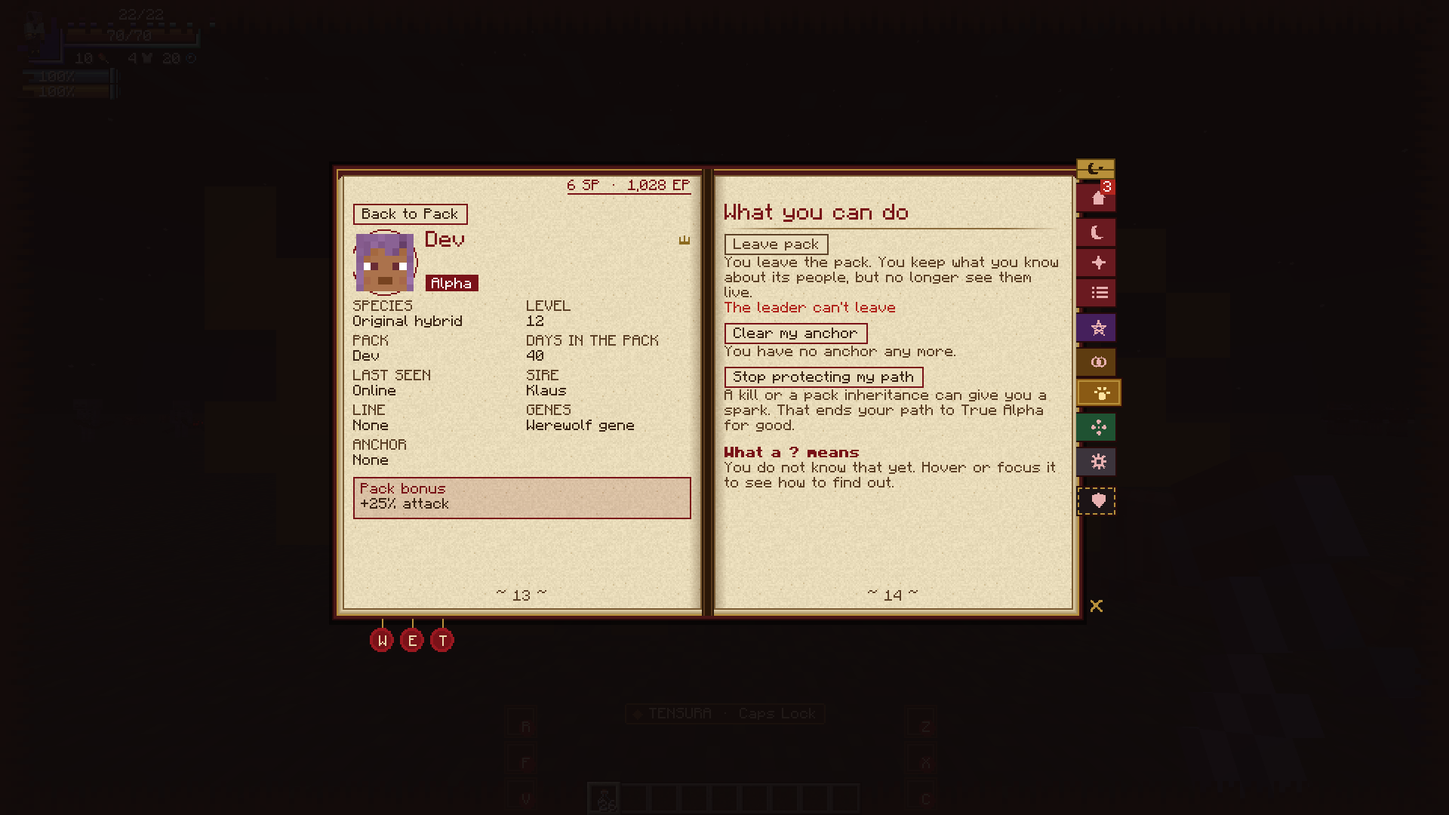
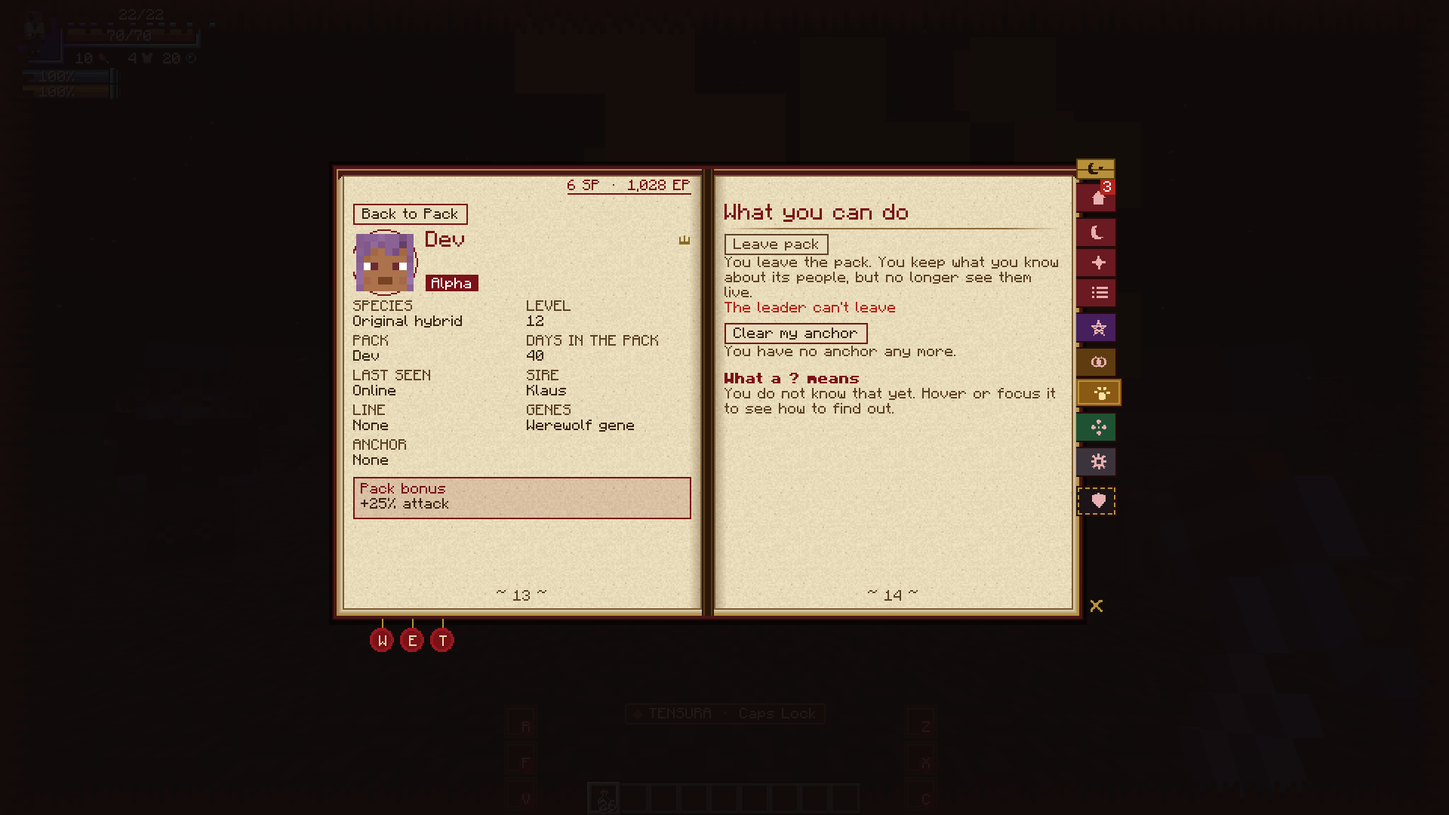
fix(sparks): protection covers kills only (inheritance still passes the spark); own client sees a True Alpha's full sparks; bare protect off hints confirm; ApexFallback settles pending changes; behaviour tests

Changed region(s): [[0.5, 0.4583, 0.7188, 0.6111], [0.6875, 0.55, 0.7188, 0.5806]]

diff --git a/src/main/java/net/ofatech/supernaturalbloodlines/parts/species/gametest/SparkRulesGameTests.java b/src/main/java/net/ofatech/supernaturalbloodlines/parts/species/gametest/SparkRulesGameTests.java
@@ -156,30 +156,30 @@ public final class SparkRulesGameTests {
         helper.succeed();
     }
 
-    /** An inheritance cannot ask: a Beta who protects an open path is passed over, one who does not (or has none left) inherits; with none the pack dissolves. */
+    /** Protection covers kills only (owner ruling): an inheritance gives the spark to the strongest Beta even if they protect an open path, and that closes it; the pack goes on. */
     @GameTest(template = "empty", templateNamespace = NS)
-    public static void aPackInheritancePassesOverABetaWhoProtectsTheirPath(GameTestHelper helper) {
+    public static void aPackInheritanceStillGivesTheSparkToAProtectedBetaAndClosesTheirPath(GameTestHelper helper) {
         ServerPlayer leader = alpha(helper, 6, 1.5);
-        ServerPlayer protectedBeta = wolf(helper, Rank.BETA, leader.getUUID(), 9, 2.5);
-        ServerPlayer open = wolf(helper, Rank.BETA, leader.getUUID(), 2, 3.5);
-        protect(open, false);
-        online(leader, protectedBeta, open);
+        ServerPlayer protectedBeta = wolf(helper, Rank.BETA, leader.getUUID(), 12, 2.5);
+        ServerPlayer other = wolf(helper, Rank.BETA, leader.getUUID(), 2, 3.5);
+        online(leader, protectedBeta, other);
         PackIndex index = PackIndex.get(helper.getLevel());
         try {
+            helper.assertTrue(PackRules.pathOpen(state(protectedBeta)) && state(protectedBeta).protectPath(), "control: the strongest Beta protects an open path");
             VampirismAPI.factionPlayerHandler(leader).leaveFaction(false); // cured: the spark passes on
-            helper.assertTrue(state(open).rank() == Rank.ALPHA && state(open).heldSpark(), "the Beta who does not protect did not inherit: " + state(open));
-            helper.assertTrue(state(protectedBeta).rank() == Rank.BETA && PackRules.pathOpen(state(protectedBeta)), "the protected Beta was forced a spark: " + state(protectedBeta));
-            helper.assertTrue(index.leaderOf(protectedBeta.getUUID()).equals(open.getUUID()), "the pack did not follow the heir");
+            helper.assertTrue(state(protectedBeta).rank() == Rank.ALPHA && state(protectedBeta).heldSpark() && !PackRules.pathOpen(state(protectedBeta)),
+                    "the protected Beta did not inherit, or their path stayed open: " + state(protectedBeta));
+            helper.assertTrue(index.leaderOf(other.getUUID()).equals(protectedBeta.getUUID()) && state(other).rank() == Rank.BETA, "the pack did not go on under the heir");
         } finally {
-            clean(helper, leader, protectedBeta, open);
+            clean(helper, leader, protectedBeta, other);
         }
+        // protection never dissolves a pack: with only protected Betas the strongest still inherits
         ServerPlayer lead2 = alpha(helper, 6, 1.5);
         ServerPlayer only = wolf(helper, Rank.BETA, lead2.getUUID(), 9, 2.5);
         online(lead2, only);
         try {
             VampirismAPI.factionPlayerHandler(lead2).leaveFaction(false);
-            helper.assertTrue(state(only).rank() != Rank.ALPHA && PackRules.pathOpen(state(only)), "the only (protected) Beta was forced a spark: " + state(only));
-            helper.assertTrue(index.leaderOf(only.getUUID()).equals(only.getUUID()) || !index.alphaOf(only.getUUID()).isPresent(), "the pack was not dissolved");
+            helper.assertTrue(state(only).rank() == Rank.ALPHA && !PackRules.pathOpen(state(only)), "the only (protected) Beta did not inherit: " + state(only));
         } finally {
             clean(helper, lead2, only);
         }
@@ -353,6 +353,26 @@ public final class SparkRulesGameTests {
         helper.succeed();
     }
 
+    /** A True Alpha's own client is told the full count even with no pack row (it does not know the cap); a dormant one, and an Alpha, see their own. */
+    @GameTest(template = "empty", templateNamespace = NS)
+    public static void aTrueAlphasOwnClientIsToldTheFullSparkCount(GameTestHelper helper) {
+        ServerPlayer truth = wolf(helper, Rank.TRUE_ALPHA, null, 1, 1.5);
+        ServerPlayer alpha = alpha(helper, 2, 2.5);
+        online(truth, alpha);
+        try {
+            int cap = SpeciesConfig.maxStackedSparks();
+            helper.assertTrue(cap > 1, "control: the cap is one");
+            helper.assertTrue(BloodlineAccess.ownView(truth, BloodlineAccess.get(truth)).wolf().sparks() == cap, "the True Alpha's own view has " + BloodlineAccess.ownView(truth, BloodlineAccess.get(truth)).wolf().sparks());
+            helper.assertTrue(BloodlineAccess.ownView(alpha, BloodlineAccess.get(alpha)).wolf().sparks() == state(alpha).sparks(), "an Alpha's own view is not their own count");
+            helper.assertTrue(BloodlineAccess.clientView(BloodlineAccess.get(truth), false).wolf().sparks() <= 1, "another player was told the True Alpha's full count");
+            VampirismAPI.factionPlayerHandler(truth).leaveFaction(false);
+            helper.assertTrue(BloodlineAccess.ownView(truth, BloodlineAccess.get(truth)).wolf().sparks() == 1, "a dormant True Alpha's view still has the full count");
+        } finally {
+            clean(helper, truth, alpha);
+        }
+        helper.succeed();
+    }
+
     /** Turning the protection off asks twice in the hub, so the typed command must too: a bare "off" is no command. And it means nothing to a player with no lineage. */
     @GameTest(template = "empty", templateNamespace = NS)
     public static void protectOffNeedsConfirmAndMeansNothingWithoutALineage(GameTestHelper helper) {
@@ -362,7 +382,15 @@ public final class SparkRulesGameTests {
         var dispatcher = server.getCommands().getDispatcher();
         try {
             var source = wolf.createCommandSourceStack();
-            helper.assertTrue(dispatcher.parse("pack protect off", source).getContext().getCommand() == null, "a bare /pack protect off is a command");
+            helper.assertTrue(PackCommand.protect(wolf, true) == null, "control");
+            var bare = dispatcher.parse("pack protect off", source);
+            helper.assertTrue(bare.getContext().getCommand() != null && bare.getExceptions().isEmpty(), "a bare /pack protect off is a parse error, not a hint");
+            try {
+                dispatcher.execute(bare);
+            } catch (com.mojang.brigadier.exceptions.CommandSyntaxException e) {
+                helper.fail("a bare /pack protect off is a parse error: " + e.getMessage());
+            }
+            helper.assertTrue(state(wolf).protectPath(), "a bare /pack protect off changed the setting");
             helper.assertTrue(dispatcher.parse("pack protect off confirm", source).getContext().getCommand() != null, "/pack protect off confirm is no command");
             helper.assertTrue(dispatcher.parse("pack protect on", source).getContext().getCommand() != null, "/pack protect on is no command");
             helper.assertTrue(PackCommand.protect(human, false) != null && BloodlineAccess.get(human).wolf().protectPath(), "a human changed a setting of a path they do not have");

diff --git a/src/test/java/net/ofatech/supernaturalbloodlines/shared/admin/UiReferencesTest.java b/src/test/java/net/ofatech/supernaturalbloodlines/shared/admin/UiReferencesTest.java
@@ -107,19 +107,18 @@ class UiReferencesTest {
     }
 
     @Test
-    void turningTheProtectionOffIsAlwaysAskedFirst() throws Exception {
-        String source = hubSource();
-        int at = -1;
-        int found = 0;
-        while ((at = source.indexOf("runCommand(\"P17\"", at + 1)) >= 0) {
-            found++;
-            String before = source.substring(Math.max(0, at - 500), at);
-            assertTrue(before.contains("confirm("), "P17 (pack protect off confirm) is run without a dialog before it");
-        }
-        assertTrue(found >= 1, "no page runs P17");
-        for (var action : net.ofatech.supernaturalbloodlines.shared.hub.profile.ProfileActions.of(new net.ofatech.supernaturalbloodlines.shared.hub.profile.ProfileActions.Viewer(false, false, false, false, false, false, true, true),
-                new net.ofatech.supernaturalbloodlines.shared.hub.profile.ProfileActions.Subject(java.util.UUID.randomUUID(), "Me", true, net.ofatech.supernaturalbloodlines.shared.hub.profile.ProfileActions.Role.NONE, false, false), false)) {
-            assertTrue(!action.rowId().equals("P17") || action.confirm(), "the Profile runs P17 with no question");
-        }
+    void turningTheProtectionOffIsAlwaysAskedFirstWhereverItIsOffered() {
+        // the Profile and Settings both take their action from ProfileActions.protectAction, so one check covers both pages
+        var off = net.ofatech.supernaturalbloodlines.shared.hub.profile.ProfileActions.protectAction(true);
+        var on = net.ofatech.supernaturalbloodlines.shared.hub.profile.ProfileActions.protectAction(false);
+        assertEquals("P17", off.rowId());
+        assertTrue(off.confirm(), "turning the protection off runs with no question");
+        assertEquals("P16", on.rowId());
+        assertTrue(!on.confirm(), "turning it on asks, which is only noise");
+        var self = new net.ofatech.supernaturalbloodlines.shared.hub.profile.ProfileActions.Subject(java.util.UUID.randomUUID(), "Me", true, net.ofatech.supernaturalbloodlines.shared.hub.profile.ProfileActions.Role.NONE, false, false);
+        var profile = net.ofatech.supernaturalbloodlines.shared.hub.profile.ProfileActions.of(new net.ofatech.supernaturalbloodlines.shared.hub.profile.ProfileActions.Viewer(false, false, false, false, false, true, true, true), self, false);
+        assertTrue(profile.contains(off), "the Profile does not offer the confirmed action while the path is open and protected");
+        var closed = net.ofatech.supernaturalbloodlines.shared.hub.profile.ProfileActions.of(new net.ofatech.supernaturalbloodlines.shared.hub.profile.ProfileActions.Viewer(true, true, false, true, false, true, false, true), self, false);
+        assertTrue(closed.stream().noneMatch(a -> a.rowId().equals("P17") || a.rowId().equals("P16")), "an Alpha (a closed path) is offered the protection switch");
     }
 }

diff --git a/src/main/java/net/ofatech/supernaturalbloodlines/core/BloodlineAccess.java b/src/main/java/net/ofatech/supernaturalbloodlines/core/BloodlineAccess.java
@@ -52,7 +52,7 @@ public final class BloodlineAccess {
         p.setData(ModAttachments.BLOODLINE, s);
         // fake/mock players have no connection channel; sending to them would throw
         if (canReceive(p)) {
-            PacketDistributor.sendToPlayer(p, new BloodlineSyncPayload(p.getId(), clientView(s, true)));
+            PacketDistributor.sendToPlayer(p, new BloodlineSyncPayload(p.getId(), ownView(p, s)));
         }
         // one send per tracker, so a fake tracker cannot stop the real ones
         BloodlineSyncPayload others = new BloodlineSyncPayload(p.getId(), clientView(s, false));
@@ -134,6 +134,24 @@ public final class BloodlineAccess {
         }
     }
 
+    private static volatile java.util.function.ToIntFunction<ServerPlayer> ownSparks = null;
+
+    /** The species part tells the core how many sparks the server counts for a player (a True Alpha holds the full count), so their own client shows the same. */
+    public static void useOwnSparks(java.util.function.ToIntFunction<ServerPlayer> count) {
+        ownSparks = count;
+    }
+
+    /** What the player's own client is told: their state with the sparks the server counts in the wolf layer (the client does not know the cap). */
+    public static BloodlineState ownView(ServerPlayer p, BloodlineState s) {
+        BloodlineState view = clientView(s, true);
+        java.util.function.ToIntFunction<ServerPlayer> count = ownSparks;
+        if (count == null) {
+            return view;
+        }
+        int n = Math.max(1, count.applyAsInt(p));
+        return n == view.wolf().sparks() ? view : view.toBuilder().wolf(view.wolf().toBuilder().sparks(n).build()).build();
+    }
+
     public static void addListener(BiConsumer<ServerPlayer, BloodlineChange> l) {
         LISTENERS.add(l);
     }
@@ -150,7 +168,7 @@ public final class BloodlineAccess {
     /** Sends {@code subject}'s state to {@code to}. */
     public static void sendTo(ServerPlayer to, Player subject) {
         if (canReceive(to)) {
-            PacketDistributor.sendToPlayer(to, new BloodlineSyncPayload(subject.getId(), clientView(get(subject), to == subject)));
+            PacketDistributor.sendToPlayer(to, new BloodlineSyncPayload(subject.getId(), to == subject ? ownView(to, get(subject)) : clientView(get(subject), false)));
         }
     }
 

diff --git a/src/main/java/net/ofatech/supernaturalbloodlines/parts/speciestensura/gametest/ApexWerewolfGameTests.java b/src/main/java/net/ofatech/supernaturalbloodlines/parts/speciestensura/gametest/ApexWerewolfGameTests.java
@@ -285,6 +285,29 @@ public final class ApexWerewolfGameTests {
         helper.succeed();
     }
 
+    /** A change seen earlier in the same tick is recorded before a later one (here a refused one) replaces it, and before the player logs out. */
+    @GameTest(template = "empty", templateNamespace = NS)
+    public static void anEarlierChangeOfTheSameTickIsSettledBeforeALaterOneAndOnLogout(GameTestHelper helper) {
+        ServerPlayer p = werewolf(helper, Species.NONE); // on tensura:human_saint
+        RaceEvents.SetRaceEvent refuse = (oldRace, entity, newRace, flag, changeable, message) ->
+                entity == p && newRace != null && "tensura:elf_saint".equals(newRace.getRaceId().toString()) ? EventResult.interruptFalse() : EventResult.pass();
+        RaceEvents.SET_RACE.register(refuse);
+        try {
+            setRace(p, APEX);
+            setRace(p, "tensura:elf_saint"); // refused: it must not take the first change's record with it
+            ApexFallback.settle(p);
+            helper.assertTrue(APEX.equals(race(p)), "control: the refusal did not hold: " + race(p));
+            helper.assertTrue("tensura:human_saint".equals(BloodlineAccess.get(p).wolf().preApex()), "the first change was lost: " + BloodlineAccess.get(p).wolf().preApex());
+        } finally {
+            RaceEvents.SET_RACE.unregister(refuse);
+        }
+        ServerPlayer q = werewolf(helper, Species.NONE);
+        setRace(q, APEX);
+        net.neoforged.neoforge.common.NeoForge.EVENT_BUS.post(new net.neoforged.neoforge.event.entity.player.PlayerEvent.PlayerLoggedOutEvent(q));
+        helper.assertTrue("tensura:human_saint".equals(BloodlineAccess.get(q).wolf().preApex()), "a change was dropped at logout: " + BloodlineAccess.get(q).wolf().preApex());
+        helper.succeed();
+    }
+
     /** Alpha and True Alpha reach the apex: a Beta (one who fell back, say) is not offered it, an Alpha is. */
     @GameTest(template = "empty", templateNamespace = NS)
     public static void aWerewolfIsOfferedTheApexOnlyWhileTheyHoldASpark(GameTestHelper helper) {

diff --git a/src/main/java/net/ofatech/supernaturalbloodlines/parts/supernatural/client/hub/page/SettingsPage.java b/src/main/java/net/ofatech/supernaturalbloodlines/parts/supernatural/client/hub/page/SettingsPage.java
@@ -24,6 +24,7 @@ import net.ofatech.supernaturalbloodlines.shared.hub.HubLayout;
 import net.ofatech.supernaturalbloodlines.shared.hub.HubTheme;
 import net.ofatech.supernaturalbloodlines.shared.hub.Rect;
 import net.ofatech.supernaturalbloodlines.shared.hub.kit.Flow;
+import net.ofatech.supernaturalbloodlines.shared.hub.profile.ProfileActions;
 
 /**
  * The player's own client settings: the look (theme, which page opens), the HUD, and the key binds, read-only with a shortcut to Controls.
@@ -62,12 +63,12 @@ public final class SettingsPage implements HubPageView {
             Rect b = new Rect(r.right() - 36, top - 1, 36, PageWidgets.H);
             boolean on = wolf.protectPath();
             PageWidgets.toggle(f, "stage:settings:protect", b, on, label, () -> {
-                if (on) {
-                    // the same question the Profile asks: turning it off can end the path (Stay is the safe answer)
-                    f.confirm(Component.translatable(PageKit.HUB + "profile.action.protect_off"), Component.translatable(PageKit.HUB + "profile.confirm.protect_off"),
-                            Component.translatable(PageKit.HUB + "profile.action.protect_off"), () -> HubClient.runCommand("P17", List.of()));
+                ProfileActions.Action a = ProfileActions.protectAction(on); // the same action, and the same question, as the Profile
+                if (a.confirm()) {
+                    f.confirm(Component.translatable(PageKit.HUB + "profile.action." + a.id()), Component.translatable(PageKit.HUB + "profile.confirm." + a.id()),
+                            Component.translatable(PageKit.HUB + "profile.action." + a.id()), () -> HubClient.runCommand(a.rowId(), List.of()));
                 } else {
-                    HubClient.runCommand("P16", List.of());
+                    HubClient.runCommand(a.rowId(), List.of());
                 }
             });
             y = PageKit.wrapped(f, Component.translatable(KEY + "protect.about"), r.x() + 4, Math.max(y, b.bottom()) + 1, r.w() - 4, t.muted());

diff --git a/src/main/java/net/ofatech/supernaturalbloodlines/parts/speciestensura/apex/ApexFallback.java b/src/main/java/net/ofatech/supernaturalbloodlines/parts/speciestensura/apex/ApexFallback.java
@@ -18,6 +18,7 @@ import net.minecraft.resources.ResourceLocation;
 import net.minecraft.server.level.ServerPlayer;
 import net.minecraft.world.entity.LivingEntity;
 import net.neoforged.neoforge.common.NeoForge;
+import net.neoforged.neoforge.event.entity.player.PlayerEvent;
 import net.neoforged.neoforge.event.tick.ServerTickEvent;
 import net.ofatech.supernaturalbloodlines.core.BloodlineAccess;
 import net.ofatech.supernaturalbloodlines.core.bloodline.ApexFallbackRules;
@@ -42,6 +43,11 @@ public final class ApexFallback {
         RaceEvents.SET_RACE.register(ApexFallback::onSetRace);
         BloodlineAccess.addListener(ApexFallback::onBloodline);
         NeoForge.EVENT_BUS.addListener(ApexFallback::onFaction);
+        NeoForge.EVENT_BUS.addListener((PlayerEvent.PlayerLoggedOutEvent e) -> {
+            if (e.getEntity() instanceof ServerPlayer p) {
+                settle(p); // a change seen this tick is recorded before they go, not dropped with the map entry
+            }
+        });
         NeoForge.EVENT_BUS.addListener((ServerTickEvent.Post e) -> {
             if (!PENDING.isEmpty()) {
                 new ArrayList<>(PENDING.keySet()).forEach(id -> {
@@ -71,6 +77,7 @@ public final class ApexFallback {
         // SET_RACE fires before the change and a later listener can still refuse it (ManasCore's setRace returns false on a refusal), so nothing is
         // recorded here: settle() records it once the race is really the new one (the next tick, or before the next thing that reads it)
         if (!busy && newRace != null && entity instanceof ServerPlayer p && !p.level().isClientSide) {
+            settle(p); // an earlier change of the same tick, before this one can replace it (a refused one would drop it)
             PENDING.put(p.getUUID(), new Pending(oldRace == null ? null : oldRace.getRaceId().toString(), newRace.getRaceId().toString()));
         }
         return EventResult.pass();

diff --git a/src/main/java/net/ofatech/supernaturalbloodlines/shared/hub/profile/ProfileActions.java b/src/main/java/net/ofatech/supernaturalbloodlines/shared/hub/profile/ProfileActions.java
@@ -45,6 +45,12 @@ public final class ProfileActions {
      * @param withTarget whether the row takes the subject's UUID
      * @param danger    asks first with the safe button focused; {@code confirm} names the lang key of its body (empty: no dialog)
      */
+    /** The one switch of "protect my True Alpha path", for the Profile and for Settings: turning it off can end the path, so that one asks first (Stay is the safe answer). */
+    public static Action protectAction(boolean protecting) {
+        return protecting ? new Action("protect_off", Kind.COMMAND, "P17", false, false, true, null, true)
+                : new Action("protect_on", Kind.COMMAND, "P16", false, false, true, null, false);
+    }
+
     public record Action(String id, Kind kind, String rowId, boolean withTarget, boolean primary, boolean enabled, @Nullable String disabled,
                          boolean confirm) {
         public List<String> args(UUID subject) {
@@ -77,9 +83,7 @@ public final class ProfileActions {
                 out.add(new Action("anchor_clear", Kind.COMMAND, "P15", false, false, true, null, false));
             }
             if (v.pathOpen()) {
-                // turning the protection off can end the path, so that one asks first (Stay is the safe answer)
-                out.add(v.protecting() ? new Action("protect_off", Kind.COMMAND, "P17", false, false, true, null, true)
-                        : new Action("protect_on", Kind.COMMAND, "P16", false, false, true, null, false));
+                out.add(protectAction(v.protecting()));
             }
             return out;
         }

diff --git a/src/test/java/net/ofatech/supernaturalbloodlines/parts/supernatural/client/hub/page/ToggleNameTest.java b/src/test/java/net/ofatech/supernaturalbloodlines/parts/supernatural/client/hub/page/ToggleNameTest.java
@@ -1,7 +1,6 @@
 package net.ofatech.supernaturalbloodlines.parts.supernatural.client.hub.page;
 
-import static org.junit.jupiter.api.Assertions.assertNotEquals;
-import static org.junit.jupiter.api.Assertions.assertTrue;
+import static org.junit.jupiter.api.Assertions.assertEquals;
 
 import net.minecraft.network.chat.Component;
 import org.junit.jupiter.api.Test;
@@ -9,11 +8,9 @@ import org.junit.jupiter.api.Test;
 /** A switch reads "On" or "Off": its tooltip and narration must say which setting that is about. */
 class ToggleNameTest {
     @Test
-    void theNarratedNameHasTheSettingAndItsState() {
-        Component on = PageWidgets.toggleName(Component.literal("Protect my True Alpha path"), true);
-        Component off = PageWidgets.toggleName(Component.literal("Protect my True Alpha path"), false);
-        assertTrue(on.getString().contains("Protect my True Alpha path"), on.getString());
-        assertTrue(off.getString().contains("Protect my True Alpha path"), off.getString());
-        assertNotEquals(on.getString(), off.getString(), "the state is part of the name");
+    void theNarratedNameIsTheSettingThenItsState() {
+        // no language is loaded in a unit test, so the state shows as its key
+        assertEquals("Protect my True Alpha path: supernaturalbloodlines.hub.switch.on", PageWidgets.toggleName(Component.literal("Protect my True Alpha path"), true).getString());
+        assertEquals("Protect my True Alpha path: supernaturalbloodlines.hub.switch.off", PageWidgets.toggleName(Component.literal("Protect my True Alpha path"), false).getString());
     }
 }

diff --git a/src/main/java/net/ofatech/supernaturalbloodlines/parts/species/pack/PackCommand.java b/src/main/java/net/ofatech/supernaturalbloodlines/parts/species/pack/PackCommand.java
@@ -106,6 +106,7 @@ public final class PackCommand {
                         .then(Commands.literal("on").executes(c -> run(c, protect(self(c), true))))
                         .then(Commands.literal("off")
                                 // turning it off can end the path, so the typed command asks to be told twice, as the hub asks first
+                                .executes(c -> run(c, error("protect_confirm")))
                                 .then(Commands.literal("confirm").executes(c -> run(c, protect(self(c), false))))))
                 .then(Commands.literal("info").executes(c -> info(c.getSource(), self(c))))
                 .then(Commands.literal("emissary")
@@ -433,8 +434,8 @@ public final class PackCommand {
     }
 
     /**
-     * "Protect my True Alpha path": while the path is open, no spark is forced on the player (a kill that would steal one destroys it, a pack
-     * inheritance passes them over). On by default. It can always be changed; it only does anything while the path is open.
+     * "Protect my True Alpha path": while the path is open, no spark is forced on the player (a kill that would steal one destroys it; a pack
+     * inheritance is not covered). On by default. It can always be changed; it only does anything while the path is open.
      */
     @Nullable
     public static Component protect(ServerPlayer p, boolean on) {

diff --git a/src/main/java/net/ofatech/supernaturalbloodlines/parts/supernatural/client/hub/DevDemo.java b/src/main/java/net/ofatech/supernaturalbloodlines/parts/supernatural/client/hub/DevDemo.java
@@ -155,7 +155,7 @@ final class DevDemo {
         // one person, everywhere: Dev is the hybrid werewolf who leads the demo pack as an Alpha with a bitten-then-born line
         var wolf = v.bloodline().wolf().toBuilder().lineage(net.ofatech.supernaturalbloodlines.core.bloodline.WolfState.Lineage.BORN)
                 .rank("beta".equals(System.getProperty("supernaturalbloodlines.devshots.demo.rank")) ? net.ofatech.supernaturalbloodlines.core.bloodline.WolfState.Rank.BETA
-                        : net.ofatech.supernaturalbloodlines.core.bloodline.WolfState.Rank.ALPHA).sparks(1).build(); // demo.rank=beta: a Beta whose path to True Alpha is open
+                        : net.ofatech.supernaturalbloodlines.core.bloodline.WolfState.Rank.ALPHA).heldSpark(!"beta".equals(System.getProperty("supernaturalbloodlines.devshots.demo.rank"))).sparks(1).build(); // an Alpha has held a spark (so no protect switch); demo.rank=beta: a Beta whose path is open
         var dev = v.bloodline().toBuilder().species(net.ofatech.supernaturalbloodlines.core.bloodline.Species.HYBRID).wolf(wolf).build();
         return new HubView(v.player(), dev, s, v.races(), HubModel.ladders(LadderTable.clientCopy(), s, v.races(), HubView.levels(v.player())), v.skills(), snap,
                 v.context().withOp(true).withPack(true));

diff --git a/src/main/java/net/ofatech/supernaturalbloodlines/parts/species/pack/SparkHandler.java b/src/main/java/net/ofatech/supernaturalbloodlines/parts/species/pack/SparkHandler.java
@@ -202,7 +202,7 @@ public final class SparkHandler {
         passOn(p);
     }
 
-    /** The best heir of {@code alpha}: the highest-level online Beta of their pack who is still a werewolf and does not protect an open True Alpha path (an inheritance cannot ask them first). */
+    /** The best heir of {@code alpha}: the highest-level online Beta of their pack who is still a werewolf. A protected True Alpha path covers kills only (owner ruling): the heir takes the spark even with an open path, and that closes it. */
     @Nullable
     static ServerPlayer heirOf(ServerPlayer alpha) {
         ServerPlayer best = null;
@@ -210,7 +210,7 @@ public final class SparkHandler {
         for (UUID id : PackIndex.get(alpha.serverLevel()).betasOf(alpha.getUUID())) {
             ServerPlayer b = SireCall.player(alpha.server, id);
             if (b == null || b == alpha || !VampirismSupernatural.isWerewolf(b) || PackAccess.wolf(b).rank() != Rank.BETA
-                    || !alpha.getUUID().equals(PackAccess.wolf(b).packAlpha()) || !PackRules.mayInherit(PackAccess.wolf(b))) {
+                    || !alpha.getUUID().equals(PackAccess.wolf(b).packAlpha())) {
                 continue;
             }
             int level = VampirismAPI.factionPlayerHandler(b).getCurrentLevel();

diff --git a/src/main/java/net/ofatech/supernaturalbloodlines/parts/species/pack/PackLeader.java b/src/main/java/net/ofatech/supernaturalbloodlines/parts/species/pack/PackLeader.java
@@ -20,9 +20,13 @@ public final class PackLeader {
     }
 
     public static void register() {
+        net.ofatech.supernaturalbloodlines.core.BloodlineAccess.useOwnSparks(PackAccess::effectiveSparks);
         NeoForge.EVENT_BUS.addListener((PlayerFactionEvent.FactionLevelChanged e) -> {
             if (e.getPlayer().getPlayer() instanceof ServerPlayer p && !p.level().isClientSide) {
                 refresh(p);
+                if (PackAccess.wolf(p).rank() == net.ofatech.supernaturalbloodlines.core.bloodline.WolfState.Rank.TRUE_ALPHA) {
+                    net.ofatech.supernaturalbloodlines.core.BloodlineAccess.sendTo(p, p); // a True Alpha's full sparks come and go with the faction
+                }
             }
         });
     }
